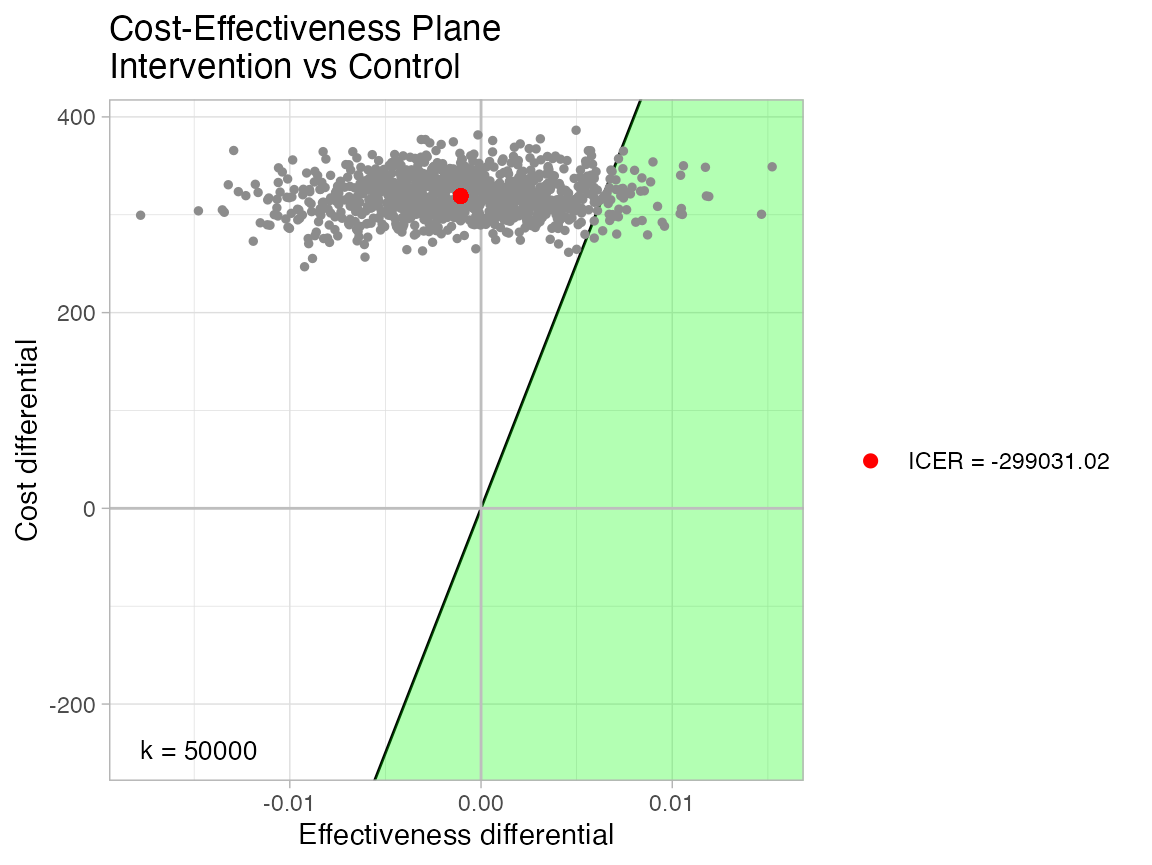
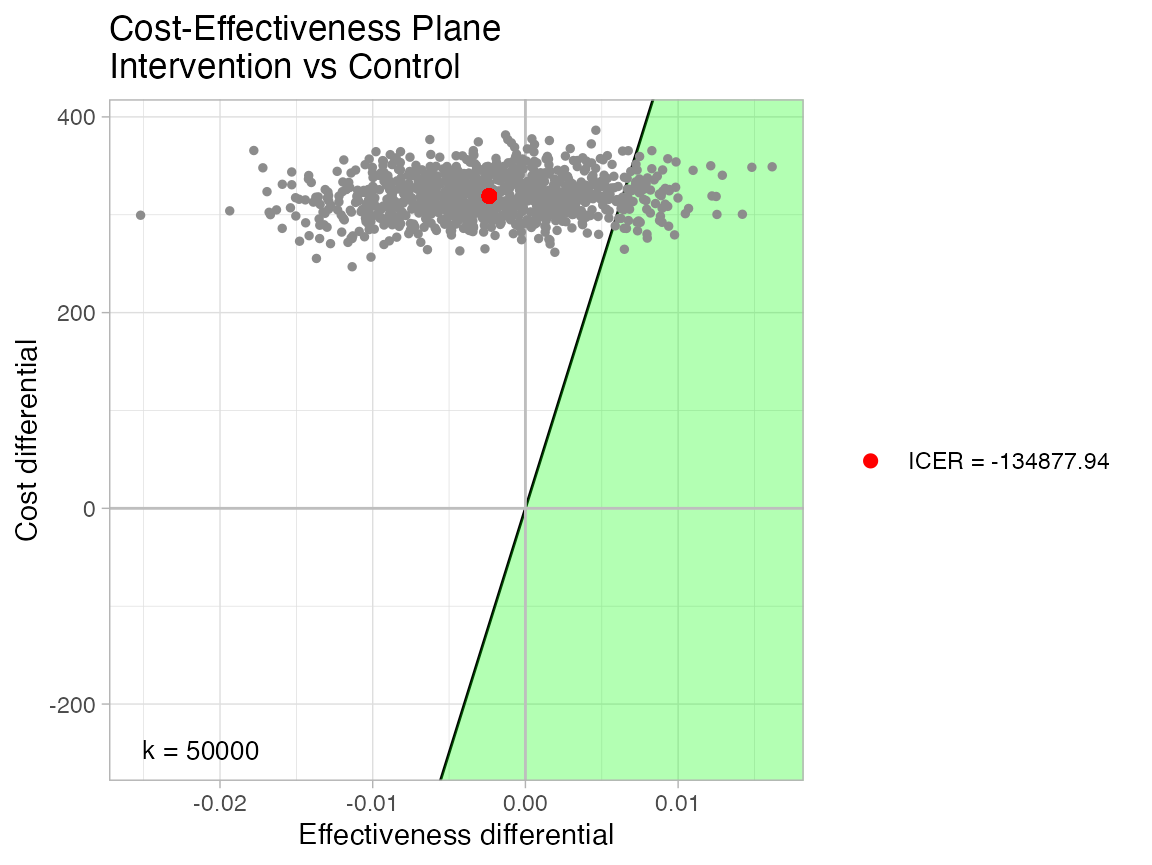
Built site for youthu: 0.0.0.9087@852a36a

diff --git a/articles/Economic_Analysis.html b/articles/Economic_Analysis.html
@@ -550,10 +550,10 @@ Control
 64
 </td>
 <td style="text-align:right;">
-0.4200094
+0.7364009
 </td>
 <td style="text-align:right;">
-0.3171777
+0.6184139
 </td>
 <td style="text-align:right;">
 0
@@ -571,13 +571,13 @@ Control
 0
 </td>
 <td style="text-align:right;">
--0.1028318
+-0.1179871
 </td>
 <td style="text-align:right;">
 0
 </td>
 <td style="text-align:right;">
-0.1786203
+0.3282713
 </td>
 </tr>
 <tr>
@@ -621,10 +621,10 @@ Control
 82
 </td>
 <td style="text-align:right;">
-0.4608916
+0.7893771
 </td>
 <td style="text-align:right;">
-0.4256762
+0.8178042
 </td>
 <td style="text-align:right;">
 0
@@ -642,13 +642,13 @@ Control
 0
 </td>
 <td style="text-align:right;">
--0.0352154
+0.0284272
 </td>
 <td style="text-align:right;">
 0
 </td>
 <td style="text-align:right;">
-0.2233107
+0.4048205
 </td>
 </tr>
 <tr>
@@ -692,10 +692,10 @@ Intervention
 72
 </td>
 <td style="text-align:right;">
-0.2954092
+0.5649664
 </td>
 <td style="text-align:right;">
-0.3835076
+0.7317730
 </td>
 <td style="text-align:right;">
 0
@@ -713,13 +713,13 @@ Intervention
 0
 </td>
 <td style="text-align:right;">
-0.0880984
+0.1668066
 </td>
 <td style="text-align:right;">
 0
 </td>
 <td style="text-align:right;">
-0.1663602
+0.3177500
 </td>
 </tr>
 <tr>
@@ -763,10 +763,10 @@ Intervention
 81
 </td>
 <td style="text-align:right;">
-0.2872310
+0.6170667
 </td>
 <td style="text-align:right;">
-0.5002243
+0.8871171
 </td>
 <td style="text-align:right;">
 0
@@ -784,13 +784,13 @@ Intervention
 0
 </td>
 <td style="text-align:right;">
-0.2129933
+0.2700505
 </td>
 <td style="text-align:right;">
 0
 </td>
 <td style="text-align:right;">
-0.1961901
+0.3747590
 </td>
 </tr>
 <tr>
@@ -834,10 +834,10 @@ Intervention
 88
 </td>
 <td style="text-align:right;">
-0.2782200
+0.6407671
 </td>
 <td style="text-align:right;">
-0.4395977
+0.8671355
 </td>
 <td style="text-align:right;">
 0
@@ -855,13 +855,13 @@ Intervention
 0
 </td>
 <td style="text-align:right;">
-0.1613778
+0.2263683
 </td>
 <td style="text-align:right;">
 0
 </td>
 <td style="text-align:right;">
-0.1827708
+0.3839424
 </td>
 </tr>
 <tr>
@@ -905,10 +905,10 @@ Intervention
 73
 </td>
 <td style="text-align:right;">
-0.3723237
+0.7533966
 </td>
 <td style="text-align:right;">
-0.3019141
+0.6529066
 </td>
 <td style="text-align:right;">
 0
@@ -926,13 +926,13 @@ Intervention
 0
 </td>
 <td style="text-align:right;">
--0.0704096
+-0.1004900
 </td>
 <td style="text-align:right;">
 0
 </td>
 <td style="text-align:right;">
-0.1652136
+0.3445972
 </td>
 </tr>
 </tbody>
@@ -952,7 +952,7 @@ Intervention
 <code class="sourceCode R"><span class="va">he_smry_ls</span> <span class="op">&lt;-</span> <span class="va">ds_tb</span> <span class="op">%&gt;%</span> <span class="fu"><a href="../reference/make_hlth_ec_smry.html">make_hlth_ec_smry</a></span><span class="op">(</span>predn_ds_ls <span class="op">=</span> <span class="va">predn_ds_ls</span>,
                                                  wtp_dbl <span class="op">=</span> <span class="fl">50000</span>,
                                                  bootstrap_iters_1L_int <span class="op">=</span> <span class="fl">1000L</span><span class="op">)</span></code></pre></div>
-<p>As part of the output of the <code class="sourceCode r">make_hlth_ec_smry</code> function is a BCEA object, we can use the BCEA package to produce a number of graphical summaries of economic results. One of the most important is the production of a cost-effectiveness plane. This plot highlights that, with an ICER of $-299,031, less than half of the bootstrapped iteration incremental cost and QALY pairs fall within the zone of cost-effectiveness (green). In fact, at the cost-effectiveness threshold we supplied, the results suggest there is a 5.4% probability that the intervention is cost-effective.</p>
+<p>As part of the output of the <code class="sourceCode r">make_hlth_ec_smry</code> function is a BCEA object, we can use the BCEA package to produce a number of graphical summaries of economic results. One of the most important is the production of a cost-effectiveness plane. This plot highlights that, with an ICER of $-134,877.9, less than half of the bootstrapped iteration incremental cost and QALY pairs fall within the zone of cost-effectiveness (green). In fact, at the cost-effectiveness threshold we supplied, the results suggest there is a 8% probability that the intervention is cost-effective.</p>
 <div class="sourceCode" id="cb17"><pre class="downlit sourceCode r">
 <code class="sourceCode R"><span class="fu">BCEA</span><span class="fu">::</span><span class="fu"><a href="https://rdrr.io/pkg/BCEA/man/ceplane.plot.html">ceplane.plot</a></span><span class="op">(</span><span class="va">he_smry_ls</span><span class="op">$</span><span class="va">ce_res_ls</span>, wtp <span class="op">=</span><span class="fl">50000</span>,    
                    area_color <span class="op">=</span> <span class="st">"green"</span>,

diff --git a/articles/Prediction_With_Mdls.html b/articles/Prediction_With_Mdls.html
@@ -275,20 +275,20 @@ Secondary Analysis A
                  mdl_nms_chr <span class="op">=</span> <span class="st">"PHQ9_SOFAS_1_OLS_CLL"</span><span class="op">)</span></code></pre></div>
 <pre><code>## $PHQ9_SOFAS_1_OLS_CLL
 ##        Parameter Estimate    SE          95% CI
-## 1 SD (Intercept)    0.243 0.010   0.222 , 0.262
-## 2      Intercept   -0.157 0.084  -0.319 , 0.008
-## 3  PHQ9 baseline   -6.716 0.170 -7.053 , -6.382
-## 4    PHQ9 change   -4.192 0.194 -4.575 , -3.814
-## 5 SOFAS baseline    0.015 0.001   0.013 , 0.017
-## 6   SOFAS change    0.010 0.001   0.009 , 0.012
-## 7             R2    0.839 0.008   0.822 , 0.853
+## 1 SD (Intercept)    0.242 0.010   0.222 , 0.262
+## 2      Intercept   -0.157 0.084  -0.321 , 0.005
+## 3  PHQ9 baseline   -6.720 0.169  -7.05 , -6.391
+## 4    PHQ9 change   -4.194 0.194 -4.576 , -3.818
+## 5 SOFAS baseline    1.483 0.112   1.268 , 1.701
+## 6   SOFAS change    1.048 0.096    0.86 , 1.235
+## 7             R2    0.838 0.008   0.822 , 0.853
 ## 8           RMSE    0.762 0.003    0.76 , 0.764
 ## 9          Sigma    0.243 0.007    0.23 , 0.257</code></pre>
 <p>More information about a selected model can be found in the online model catalogue, the link to which can be obtained with the following command:</p>
 <div class="sourceCode" id="cb6"><pre class="downlit sourceCode r">
 <code class="sourceCode R"><span class="fu"><a href="../reference/get_mdl_ctlg_url.html">get_mdl_ctlg_url</a></span><span class="op">(</span><span class="va">mdls_lup</span>,
                  mdl_nm_1L_chr <span class="op">=</span> <span class="st">"PHQ9_SOFAS_1_OLS_CLL"</span><span class="op">)</span></code></pre></div>
-<p>[1] “<a href="https://dataverse.harvard.edu/api/access/datafile/4867747" class="uri">https://dataverse.harvard.edu/api/access/datafile/4867747</a>”</p>
+<p>[1] “<a href="https://dataverse.harvard.edu/api/access/datafile/4867929" class="uri">https://dataverse.harvard.edu/api/access/datafile/4867929</a>”</p>
 </div>
 <div id="prepare-prediction-dataset" class="section level2">
 <h2 class="hasAnchor">
@@ -476,7 +476,7 @@ Baseline
 69
 </td>
 <td style="text-align:right;">
-0.5229801
+0.8699928
 </td>
 </tr>
 <tr>
@@ -493,7 +493,7 @@ Baseline
 60
 </td>
 <td style="text-align:right;">
-0.2973338
+0.5967787
 </td>
 </tr>
 <tr>
@@ -510,7 +510,7 @@ Follow-up
 64
 </td>
 <td style="text-align:right;">
-0.2000971
+0.3884106
 </td>
 </tr>
 <tr>
@@ -527,7 +527,7 @@ Baseline
 76
 </td>
 <td style="text-align:right;">
-0.8070229
+0.8797272
 </td>
 </tr>
 <tr>
@@ -544,7 +544,7 @@ Baseline
 71
 </td>
 <td style="text-align:right;">
-0.6821478
+0.8599971
 </td>
 </tr>
 <tr>
@@ -561,7 +561,7 @@ Follow-up
 71
 </td>
 <td style="text-align:right;">
-0.6074271
+0.9837122
 </td>
 </tr>
 </tbody>
@@ -575,7 +575,7 @@ Follow-up
 <div class="sourceCode" id="cb13"><pre class="downlit sourceCode r">
 <code class="sourceCode R"><span class="fu"><a href="https://rdrr.io/r/base/summary.html">summary</a></span><span class="op">(</span><span class="va">updated_data_tb</span><span class="op">$</span><span class="va">AQoL6D_HU</span><span class="op">)</span></code></pre></div>
 <pre><code>##    Min. 1st Qu.  Median    Mean 3rd Qu.    Max. 
-## 0.07082 0.23350 0.31898 0.33904 0.42208 0.81501</code></pre>
+##  0.1776  0.5095  0.6493  0.6391  0.7749  0.9998</code></pre>
 </div>
   </div>
 
